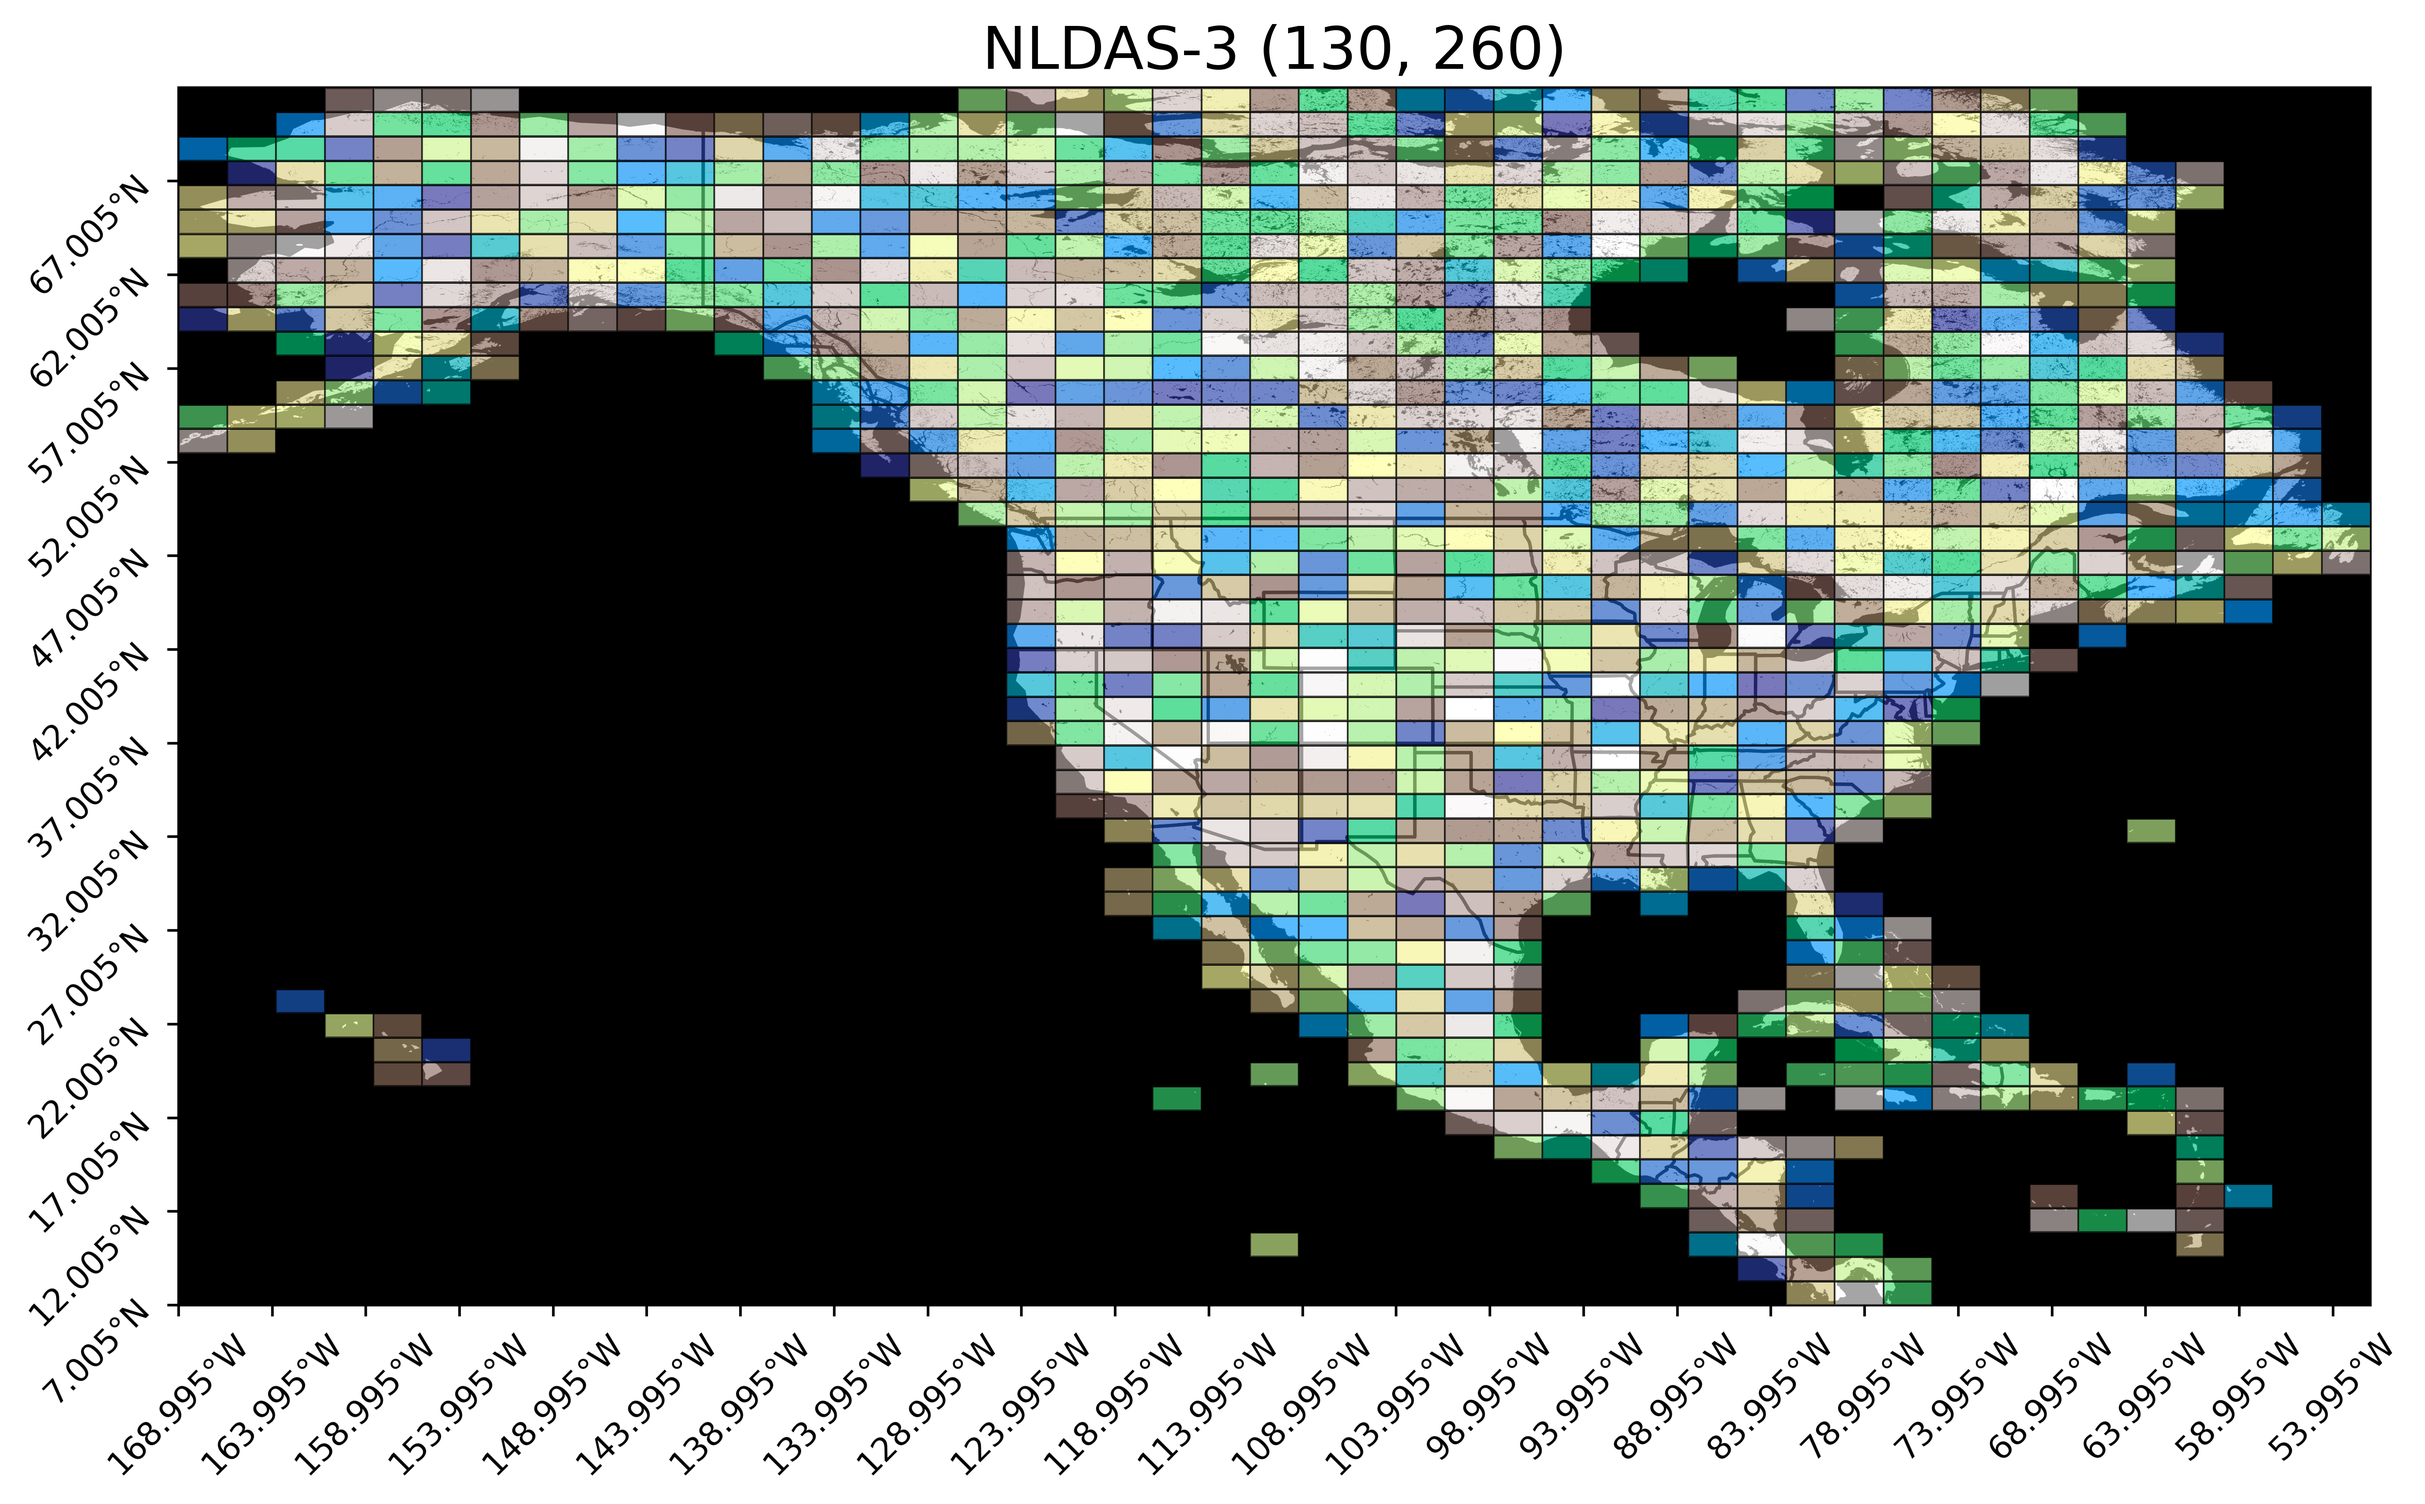
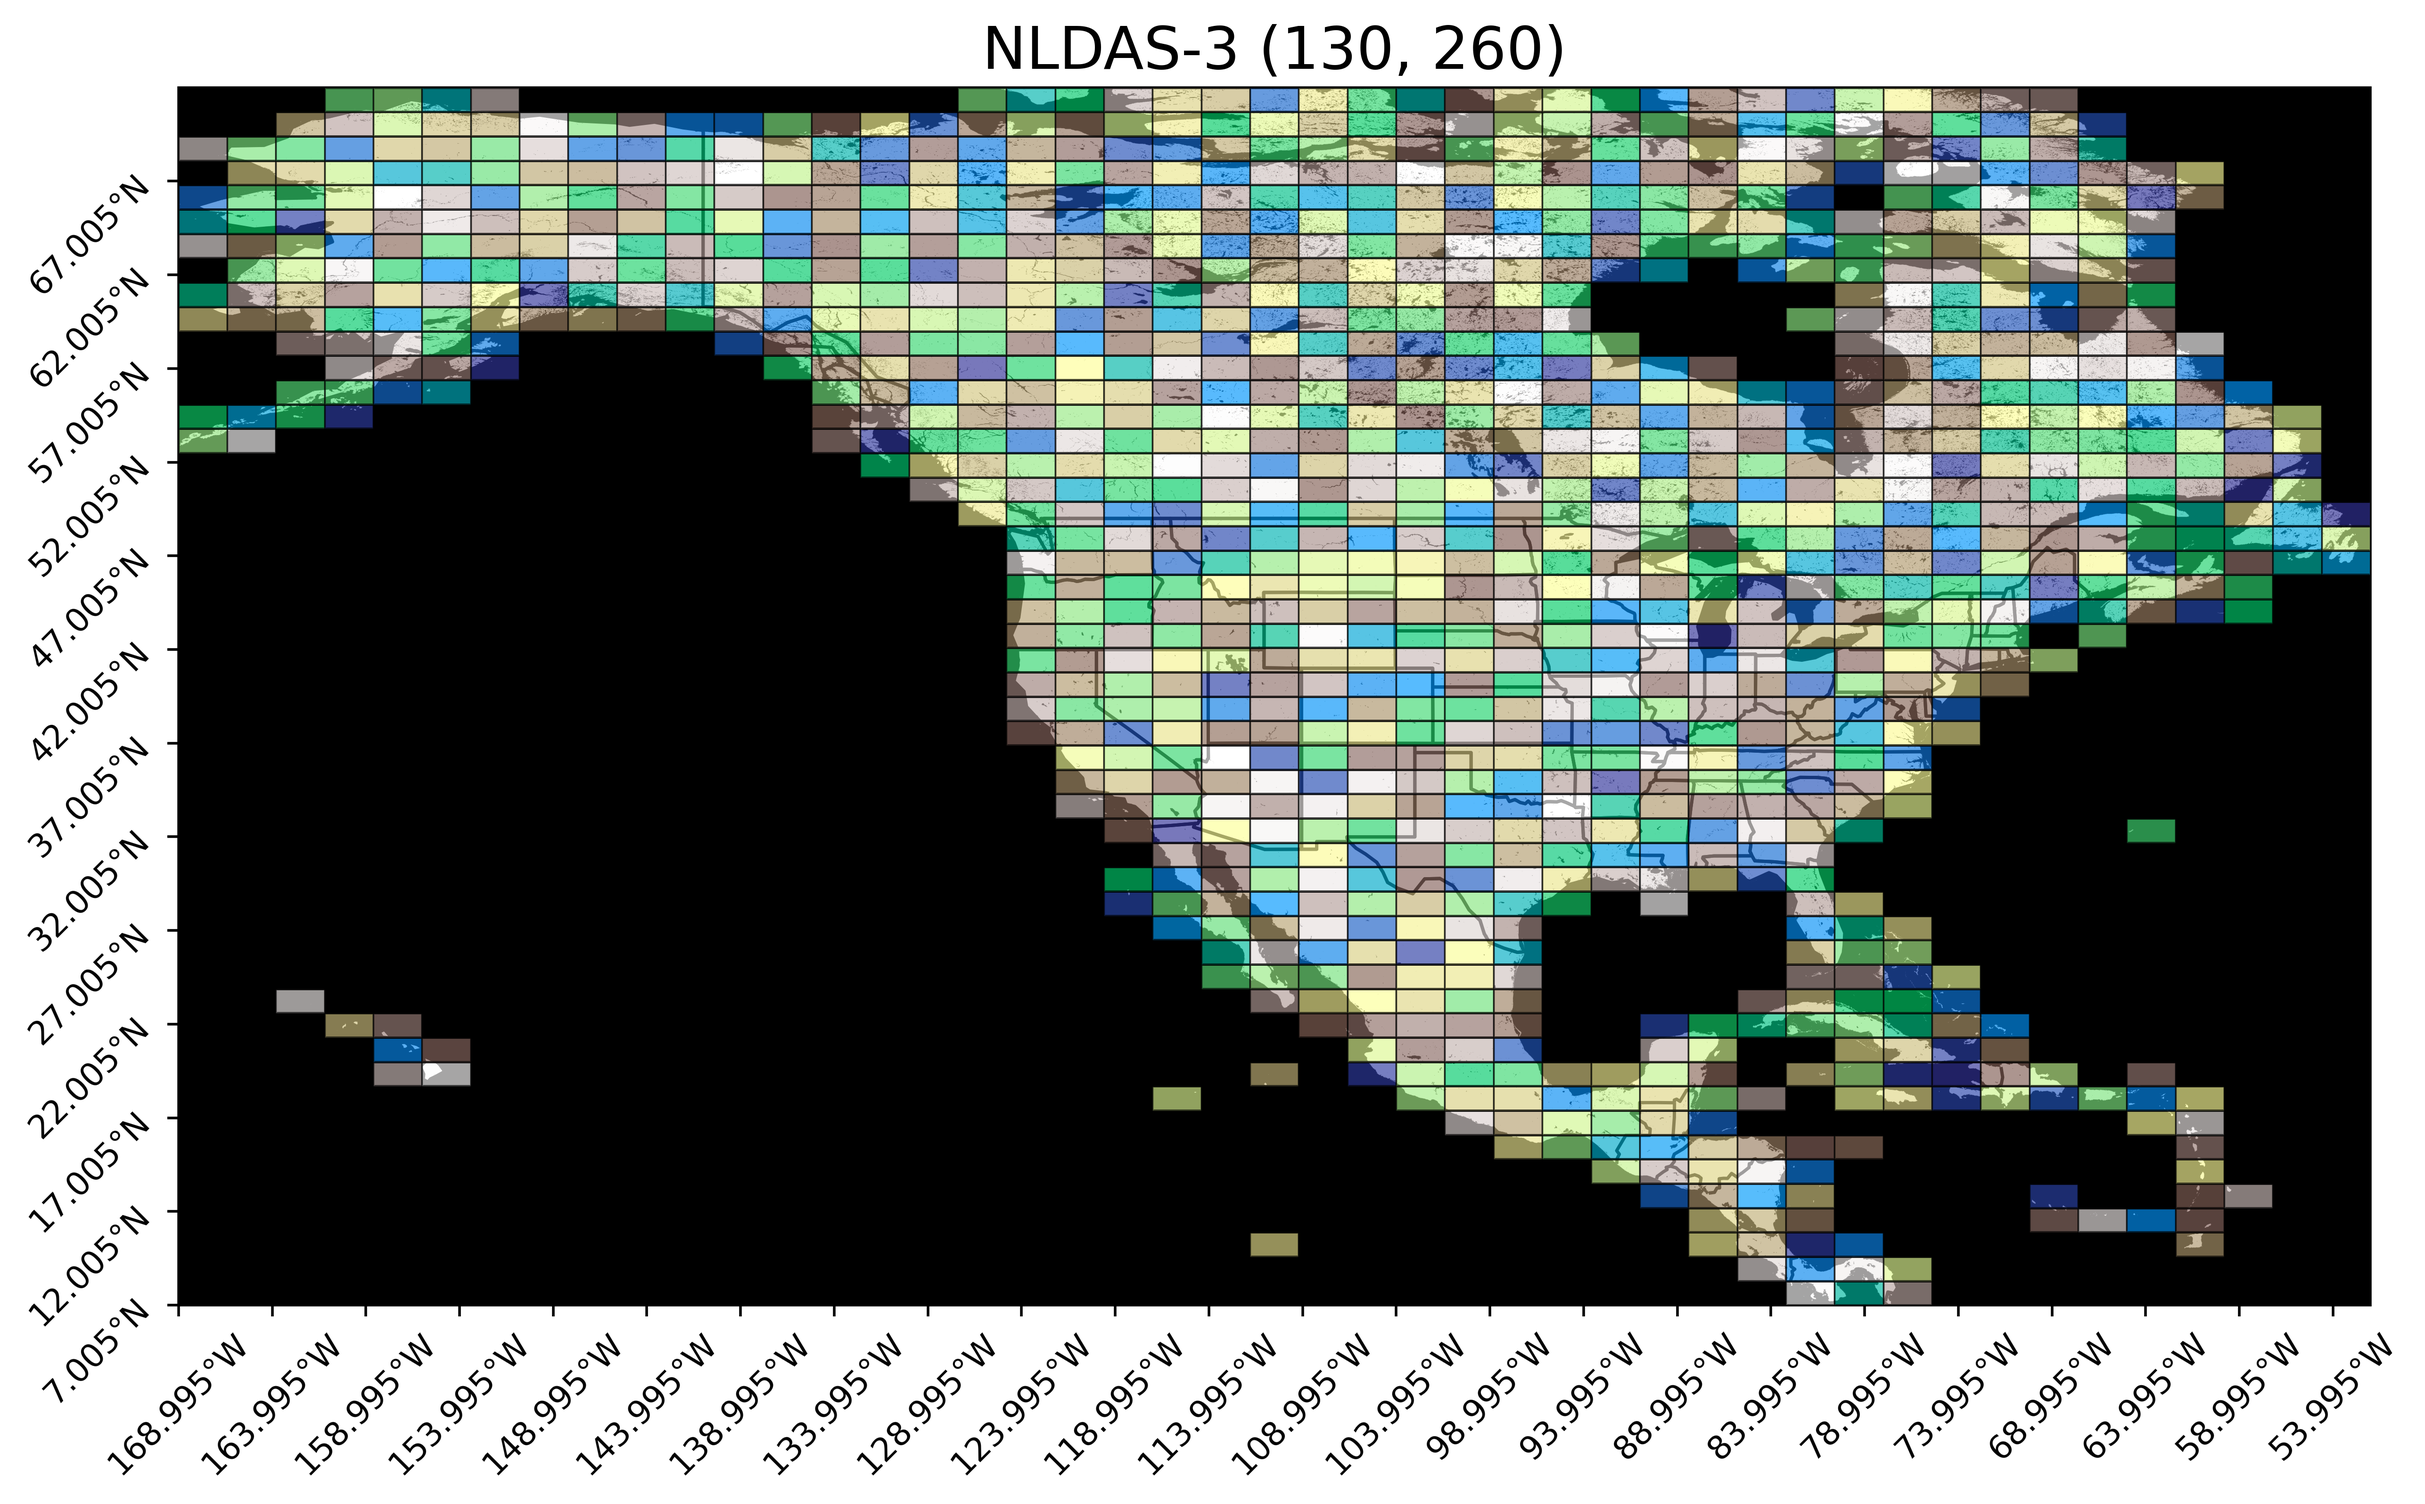
modified test script to only periodically generate a results file since I/O is otherwise a bottleneck

diff --git a/benchmarks/zarr_time_chunk/test_nldas3_chunk_variations.py b/benchmarks/zarr_time_chunk/test_nldas3_chunk_variations.py
@@ -259,20 +259,12 @@ def run_benchmark(zarr_url, test_type, var_label,
         "query":query,
         }
 
-def collect_benchmark_result(cur_args, cur_results, json_path):
-    """
-    Adds new results from run_benchmark to a json file.
-    Don't multiprocess over this method!!
-    """
-    if json_path.exists():
-        results = json.load(json_path.open("r"))
-    else:
-        results = {}
-
-    if cur_args["test_type"] not in results.keys():
-        results[cur_args["test_type"]] = {}
-    if cur_args["var_label"] not in results[cur_args["test_type"]].keys():
-        results[cur_args["test_type"]][cur_args["var_label"]] = {
+def collect_benchmark_result(cur_args, cur_results, all_results):
+    """ Adds new results from run_benchmark to a dict of old results """
+    if cur_args["test_type"] not in all_results.keys():
+        all_results[cur_args["test_type"]] = {}
+    if cur_args["var_label"] not in all_results[cur_args["test_type"]].keys():
+        all_results[cur_args["test_type"]][cur_args["var_label"]] = {
             "point_count":[],
             "time_start":[],
             "dt_init":[],
@@ -287,15 +279,14 @@ def collect_benchmark_result(cur_args, cur_results, json_path):
         "seed":cur_args["seed"],
         }
     for k,v in tmp_res_dict.items():
-        results[cur_args["test_type"]][cur_args["var_label"]][k].append(v)
+        all_results[cur_args["test_type"]][cur_args["var_label"]][k].append(v)
     print("Finished benchmark:",
         cur_args["test_type"],
         cur_args["var_label"],
-        len(results[cur_args["test_type"]][cur_args["var_label"]]["seed"]),
+        len(all_results[cur_args["test_type"]][cur_args["var_label"]]["seed"]),
         )
+    return all_results
 
-    json.dump(results, json_path.open("w"), indent=2)
-    return results
 
 def get_chunk_size_combos(time_sizes, lat_sizes, lon_sizes,
         dtype_bytesize=4, chunk_size_bounds_mb=None, area_aspect_bounds=None,
@@ -370,7 +361,8 @@ if __name__=="__main__":
     full_chunk_only = True
     #json_out_path = Path("nldas3_chunk_bench_results_local.json")
     #json_out_path = Path("data/nldas3_chunk_bench_results.json")
-    json_out_path = Path("data/nldas3_chunk_bench_results_fullchunk.json")
+    json_out_path = Path("data/nldas3_chunk_bench_results_fullchunk_2.json")
+    save_results_frequency = 32
 
     nprocs = 6 ## number of concurrent processes for downloading
     #nprocs = 1
@@ -489,6 +481,12 @@ if __name__=="__main__":
     """ run benchmarks and store results """
 
     if run_benchmarks:
+        ## load any existing results
+        if json_out_path.exists():
+            results = json.load(json_out_path.open("r"))
+        else:
+            results = {}
+
         rng = np.random.default_rng(random_seed)
         bench_runs = [
             (cc.as_tuple(),tl)
@@ -519,19 +517,24 @@ if __name__=="__main__":
             } for i,(cctup,tl) in enumerate(bench_runs)]
 
         print(f"Running {len(args)} experiments")
-        results = {}
         if nprocs>1:
             with mp.Pool(nprocs) as pool:
-                for a,r in pool.imap_unordered(mp_run_benchmark, args):
-                    collect_benchmark_result(
+                for i,(a,r) in enumerate(pool.imap_unordered(
+                        mp_run_benchmark, args)):
+                    results = collect_benchmark_result(
                         cur_args=a,
                         cur_results=r,
-                        json_path=json_out_path
+                        all_results=results,
                         )
+                    if i%save_results_frequency==0:
+                        json.dump(results, json_out_path.open("w"))
         else:
-            for a,r in map(mp_run_benchmark, args):
-                collect_benchmark_result(
+            for i,(a,r) in enumerate(map(mp_run_benchmark, args)):
+                results = collect_benchmark_result(
                     cur_args=a,
                     cur_results=r,
-                    json_path=json_out_path,
+                    all_results=results,
                     )
+                if i%save_results_frequency==0:
+                    json.dump(results, json_out_path.open("w"))
+        json.dump(results, json_out_path.open("w"))

diff --git a/benchmarks/zarr_time_chunk/README.md b/benchmarks/zarr_time_chunk/README.md
@@ -265,4 +265,47 @@ arbitrarily shaped but constrained contiguous subsets.
 - show the relationship between request size/shape, number of chunks
   requested, and download time
 
+### zarr downloading
+
+1. on `xr.open_zarr`, declare fsspec and acquire metadata for
+   shapes, coordinates, attributes, structure, and chunk config.
+2. on `ds.isel`, create a new view with lazily-defined slicing
+   operations on dask array compute graph.
+3. on `load()`, fsspec concurrently fetches byte ranges for chunks
+   touching slice, decompresses them, subsets them according to the
+   slice, and concatenates them.
+
 ### thoughts
+
+My initial phase of results were seriously comprimised by the fact
+that the chunk sizes I tested were not all factors of the subdomain
+size I was using. Smaller chunks distort the ratio between latency
+and download time, which adds significant variance to single-chunk
+and pixel column observations.
+
+In the second round of tests, I limit my observations to full chunks,
+and test single requests, concurrent requests for contiguous chunk
+volumes, and consecutive requests for multiple sparse chunks.
+
+With these observations, I aim to build a regression mapping
+chunk size and number of chunks requested to throughput.
+
+Combined with the `calculate_chunk_intersections` method in
+`ChunkConfig.py`, the observations may be used to forecast the
+amount of time it takes to download data with any given access
+pattern.
+
+Keep in mind that the observations implicitly include the effects
+of compression since zarr v3 uses zstd compression (level 3) by
+default; both the decrease in payload and the time to decompress.
+
+Also, there may be some nonlinearity caused by concurrency saturating
+bandwidth at a certain point.
+
+**regressions**
+
+- download time per chunk wrt chunk size (each experiment separate)
+- nchunks/PoR wrt open time
+  - if consistent, then histogram of all open times
+- throughput wrt number of chunks requested (volume, multichunk)
+- throughput wrt chunk size (each experiment separate)
